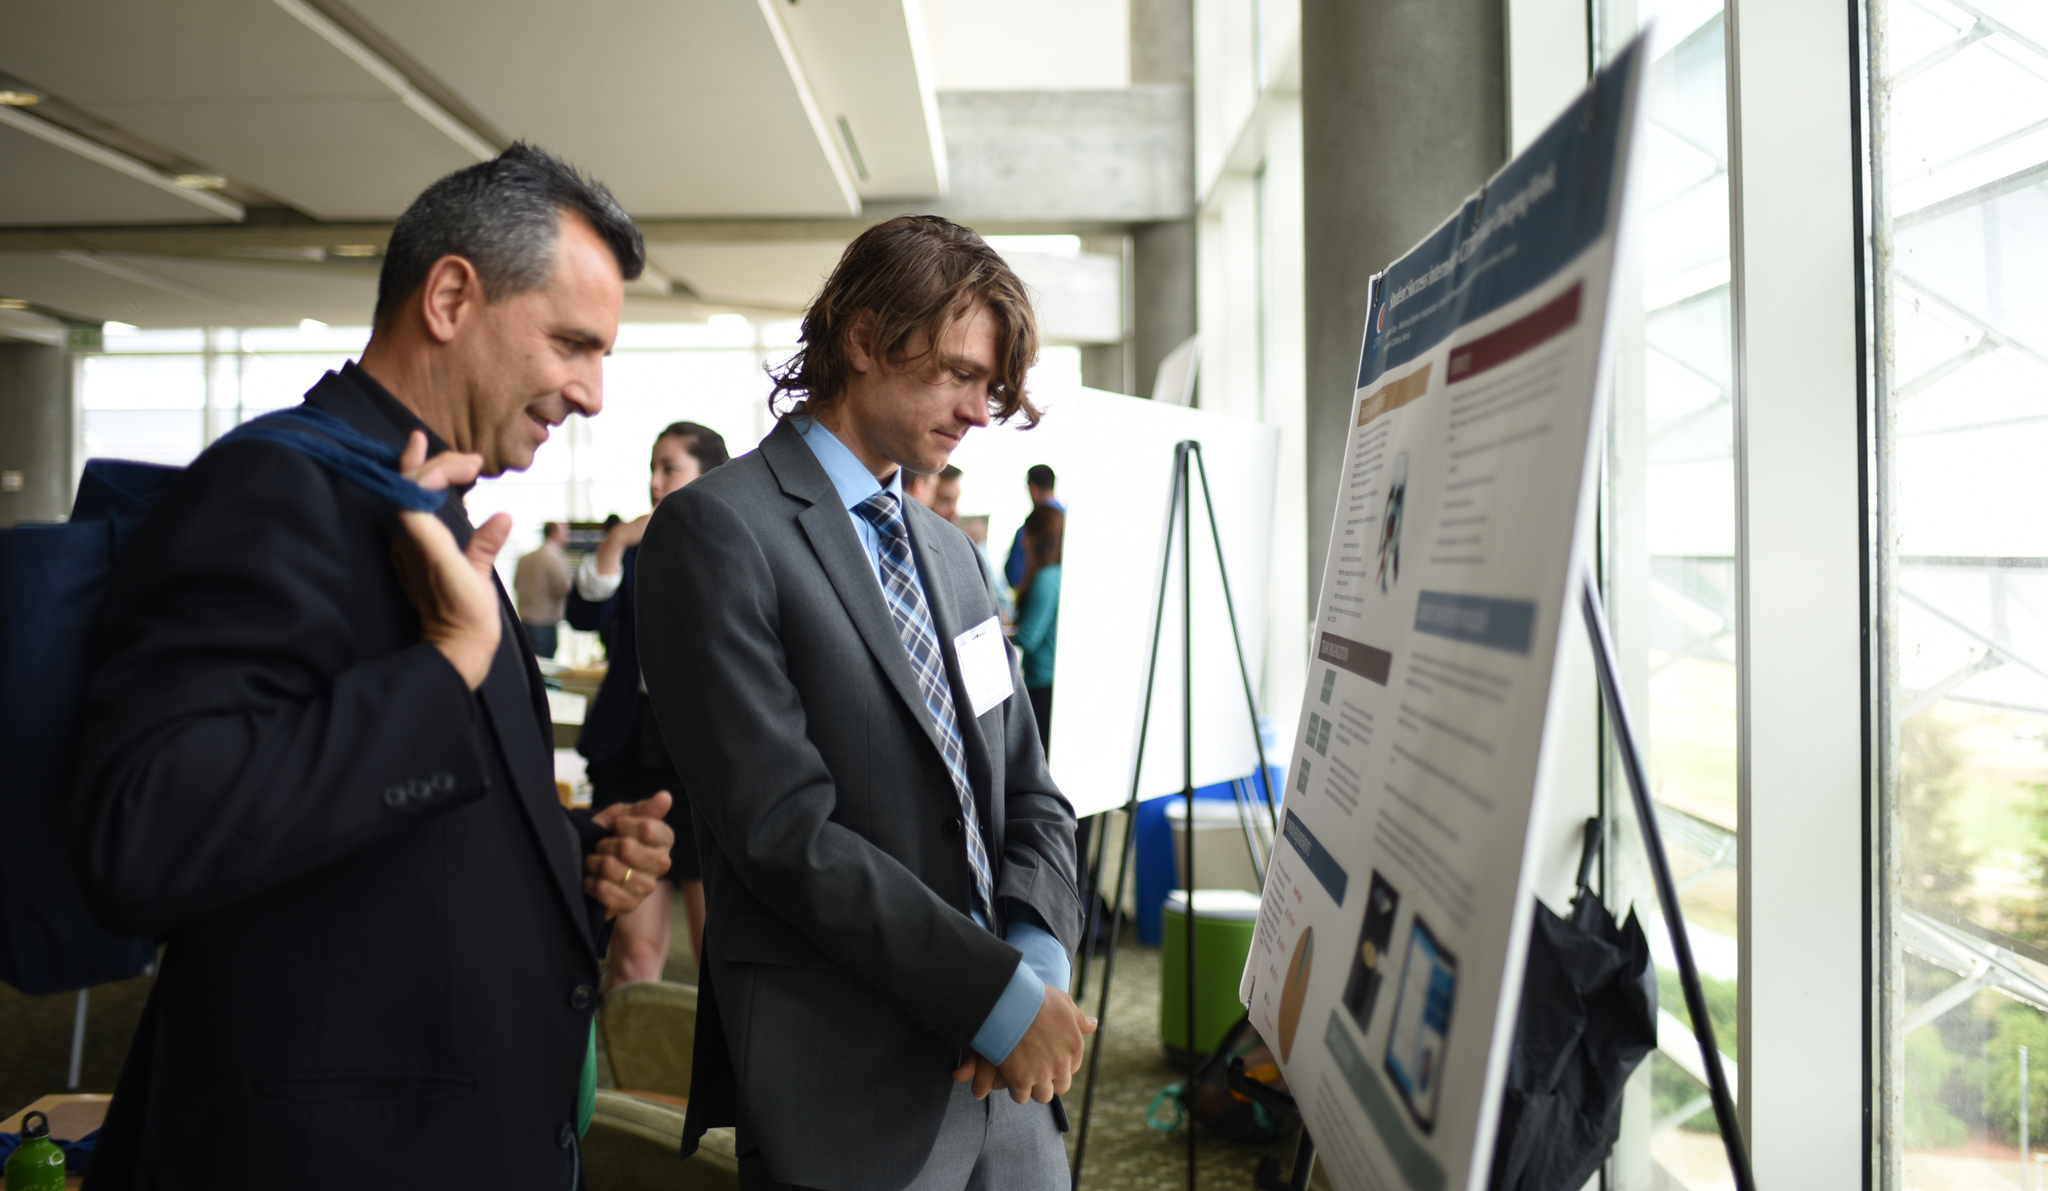
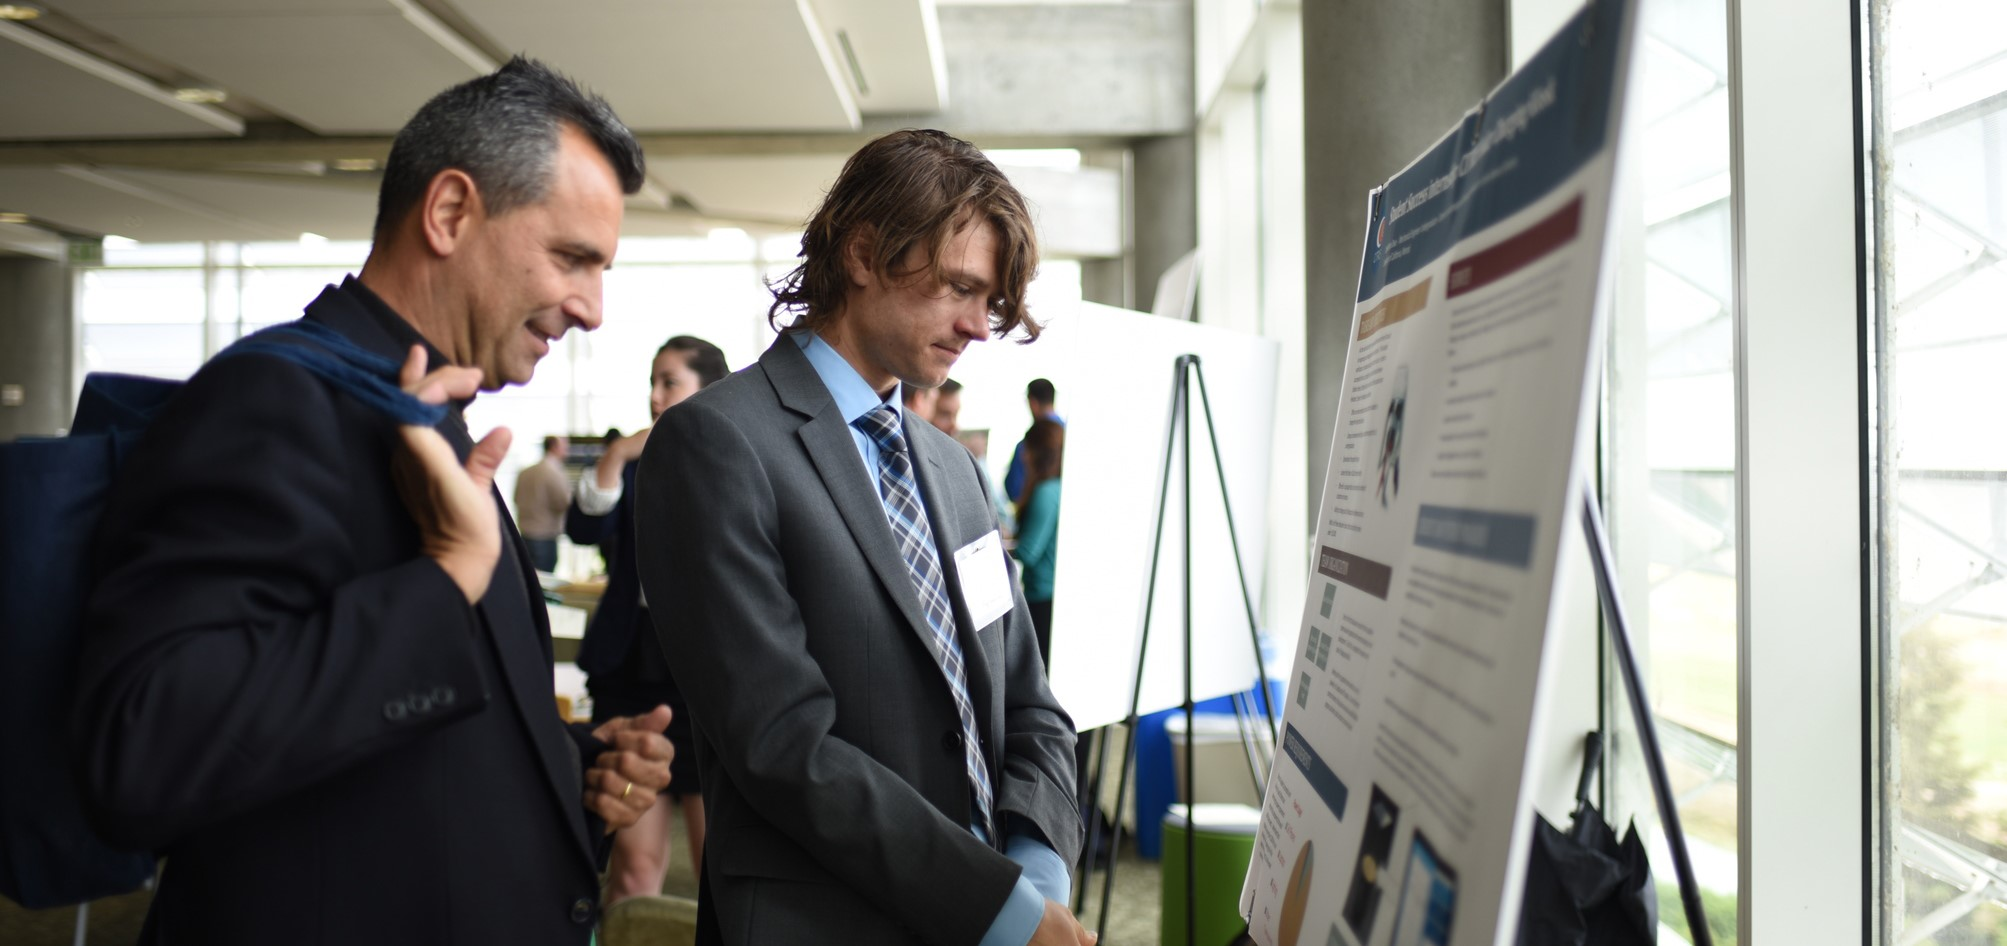
fix research page

diff --git a/research.html b/research.html
@@ -106,9 +106,10 @@
                                 </header>
                                 <section>
                                     <span class="image featured">
-                                        <img src="images/research1.jpg" alt="" style="width:800px;height:450px;">
+                                        <img src="images/research1.jpg" alt="" >
                                     </span>
                                     <p>
+                                        <br/>
                                         CITRIS and the Banatao Institute bring together hundreds of affiliated faculty
                                         members and students to generate social and economic impact. Together with more
                                         than 70 public and private collaborators, we are shaping the future of
